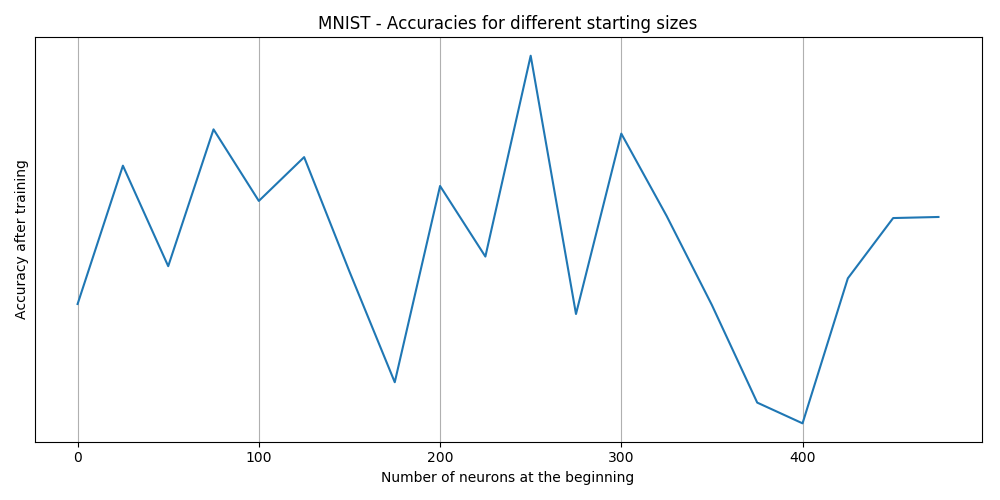
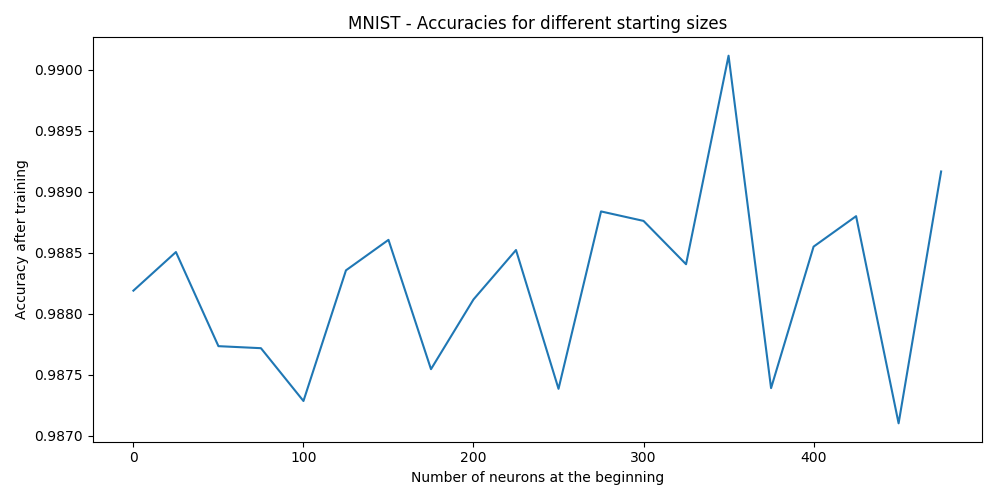
Update plots and remove log scale and grid

diff --git a/simple_metricless.py b/simple_metricless.py
@@ -114,8 +114,6 @@ def plot_accuracies(accuracies, sizes, prefix):
     plt.title(prefix +' - Accuracies for different starting sizes')
     plt.xlabel('Number of neurons at the beginning')
     plt.ylabel('Accuracy after training')
-    plt.yscale('log')
-    plt.grid(True)
     plt.tight_layout()
     plt.savefig('./plots/%s_1h_simple_flexible_accuracies' % prefix)
     plt.close()
